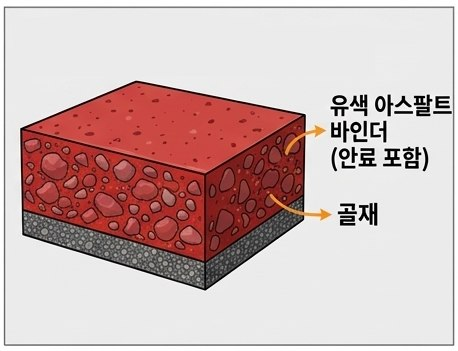
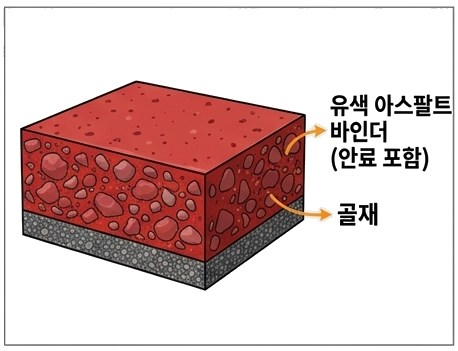
아스콘 종류 이미지 배경 회색빛 제거 -> 순백색 처리
- 원본 이미지의 옅은 회색 캔버스/테두리 배경을 임계값 기반으로 흰색(255,255,255)으로 치환
- 카드 레터박스 배경도 var(--bg) -> #fff 로 통일

Changed region(s): [[0.7031, 0.5983, 0.7336, 0.6268], [0.7031, 0.3419, 0.7336, 0.3704], [0.2445, 0.2279, 0.2751, 0.2564]]

diff --git a/css/style.css b/css/style.css
@@ -418,7 +418,7 @@ h3.pavement-title:first-of-type { margin-top: 8px; }
   border-radius: 14px;
   padding: 16px;
 }
-.type-card img { width: 220px; height: 170px; object-fit: contain; background: var(--bg); border-radius: 10px; flex-shrink: 0; }
+.type-card img { width: 220px; height: 170px; object-fit: contain; background: #fff; border-radius: 10px; flex-shrink: 0; }
 .type-info { flex: 1; min-width: 0; }
 .type-info h4 { font-size: 18px; font-weight: 700; margin-bottom: 6px; }
 .type-info h4 em { display: block; font-style: normal; font-weight: 500; font-size: 13px; color: var(--ink-soft); margin-top: 2px; }
